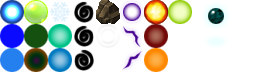
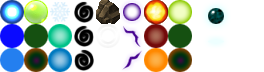
ADD Poison shot

Changed region(s): [[0.6364, 0.3333, 0.7273, 1.0]]

diff --git a/src/Items.h b/src/Items.h
@@ -118,6 +118,7 @@ enum enumItemType
   ItemLuck,
   ItemFairyPowder,
   ItemBookRapidShots,
+  ItemGemPoison,
 
   NUMBER_ITEMS
 };
@@ -380,6 +381,10 @@ const itemStuct items[NUMBER_ITEMS] =
     ItemBookRapidShots, "item_rapid_shots", "item_rapid_shots_desc",
     20, true, FamiliarNone, true, true, true, 1, RarityRare, false, -1, ShotTypeStandard, SpellNone
   },
+  {
+    ItemGemPoison, "item_gem_poison", "item_gem_poison_desc",
+    30, true, FamiliarNone, true, true, true, 4, RarityUncommon, false, -1, ShotTypePoison, SpellNone
+  },
 };
 
 /** Item equipment type enum
@@ -434,6 +439,7 @@ enum item_equip_enum {
   EQUIP_LUCK,
   EQUIP_FAIRY_POWDER,
   EQUIP_RAPID_SHOT,
+  EQUIP_GEM_POISON,
 
   NUMBER_EQUIP_ITEMS
   };
@@ -464,6 +470,7 @@ const std::vector<item_equip_enum> sortedEquipement =
   EQUIP_GEM_LIGHTNING,
   EQUIP_GEM_FIRE,
   EQUIP_GEM_ILLUSION,
+  EQUIP_GEM_POISON,
 
   // books
   EQUIP_MANUAL_STAFF,

diff --git a/src/BaseCreatureEntity.cpp b/src/BaseCreatureEntity.cpp
@@ -132,6 +132,8 @@ void BaseCreatureEntity::animateColors(float delay)
       if (hurtingDelay > HURTING_DELAY) fadeColor = 0;
       if (hurtingType == ShotTypeIce || hurtingType == ShotTypeCold)
         sprite.setColor(sf::Color(fadeColor, fadeColor, 255, 255 )); // blue
+      else if (hurtingType == ShotTypePoison)
+        sprite.setColor(sf::Color(fadeColor, 255, fadeColor, 255 )); // green
       else
         sprite.setColor(sf::Color(255, fadeColor, fadeColor, 255 )); // red
     }
@@ -142,6 +144,7 @@ void BaseCreatureEntity::animateColors(float delay)
     }
   }
   if (specialState[SpecialStateIce].active) sprite.setColor(sf::Color(100, 100, 255, 255 ));
+  else if (specialState[SpecialStatePoison].active) sprite.setColor(sf::Color(100, 255, 100, 255 ));
 }
 
 void BaseCreatureEntity::animateRecoil(float delay)

diff --git a/src/PlayerEntity.cpp b/src/PlayerEntity.cpp
@@ -732,6 +732,10 @@ void PlayerEntity::renderPlayer(sf::RenderTarget* app)
       sprite.setColor(sf::Color(255, 180, 0, 255));
       break;
 
+    case ShotTypePoison:
+      sprite.setColor(sf::Color(50, 255, 50, 255));
+      break;
+
     default:
       std::cout << "[WARNING] Can not render shot type: " << getShotType() << std::endl;
     }
@@ -1151,6 +1155,7 @@ void PlayerEntity::generateBolt(float velx, float vely)
   case ShotTypeStone:
   case ShotTypeLightning:
   case ShotTypeFire:
+  case ShotTypePoison:
     boltType = getShotType();
     shotLevel = getShotLevel();
     break;
@@ -1852,6 +1857,7 @@ bool PlayerEntity::canGetNewShot(bool advancedShot)
 
     case ShotTypeFire:
     case ShotTypeIllusion:
+    case ShotTypePoison:
       nbAdvanced++;
       break;
 

diff --git a/src/ItemEntity.cpp b/src/ItemEntity.cpp
@@ -182,7 +182,7 @@ void ItemEntity::render(sf::RenderTarget* app)
   }
   else
   {
-    sprite.setTextureRect(sf::IntRect(9 * width, 4 * height, width, height));
+    sprite.setTextureRect(sf::IntRect(9 * width, 5 * height, width, height));
     app->draw(sprite);
   }
 
